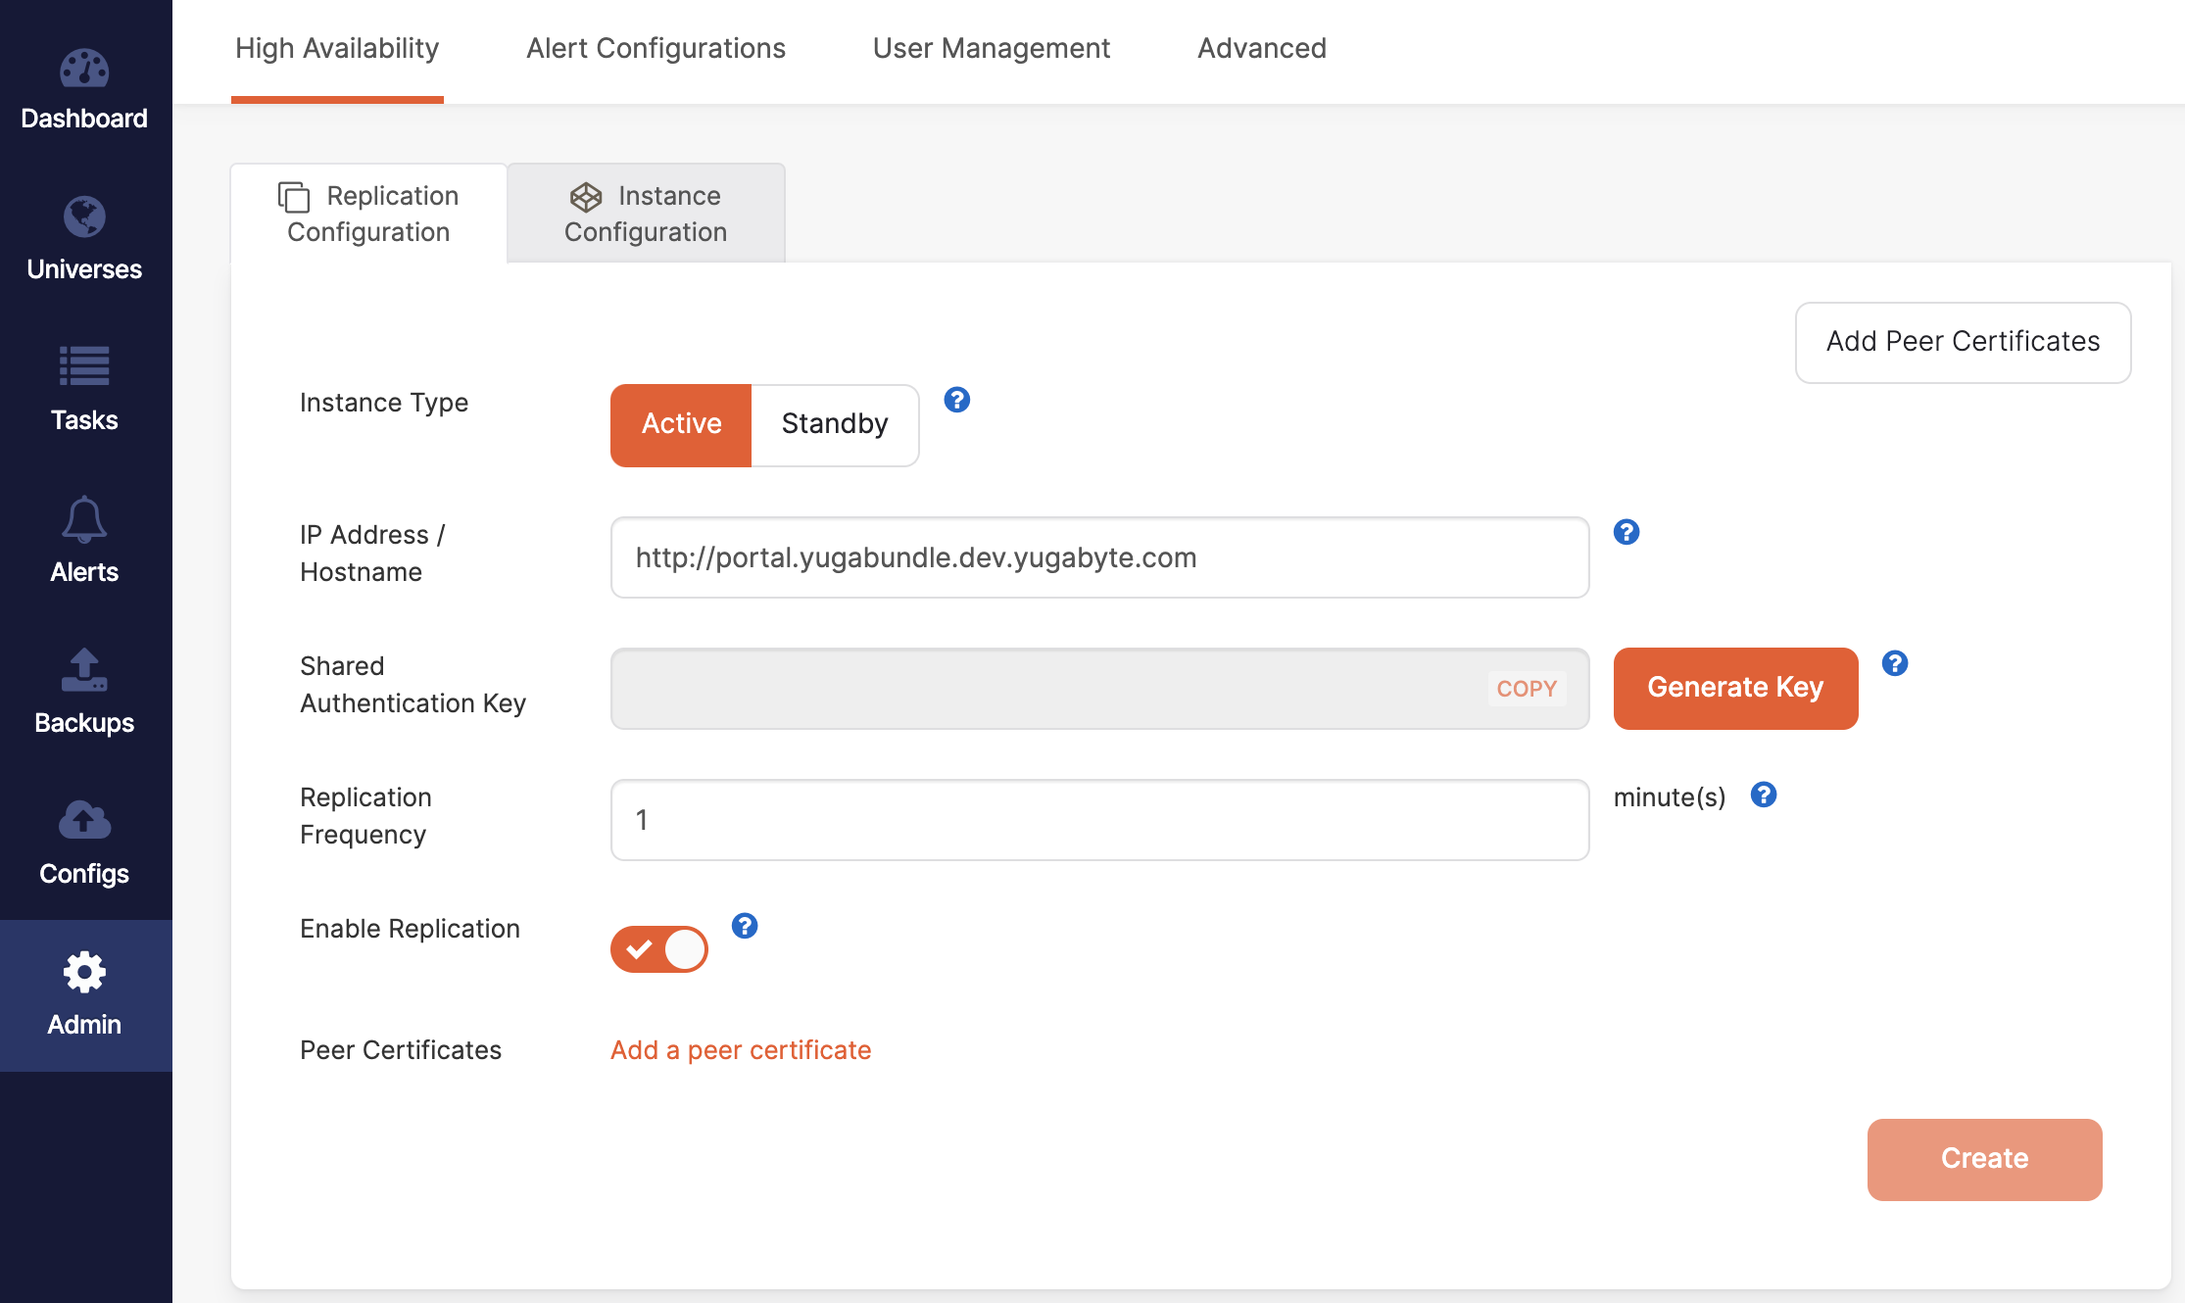
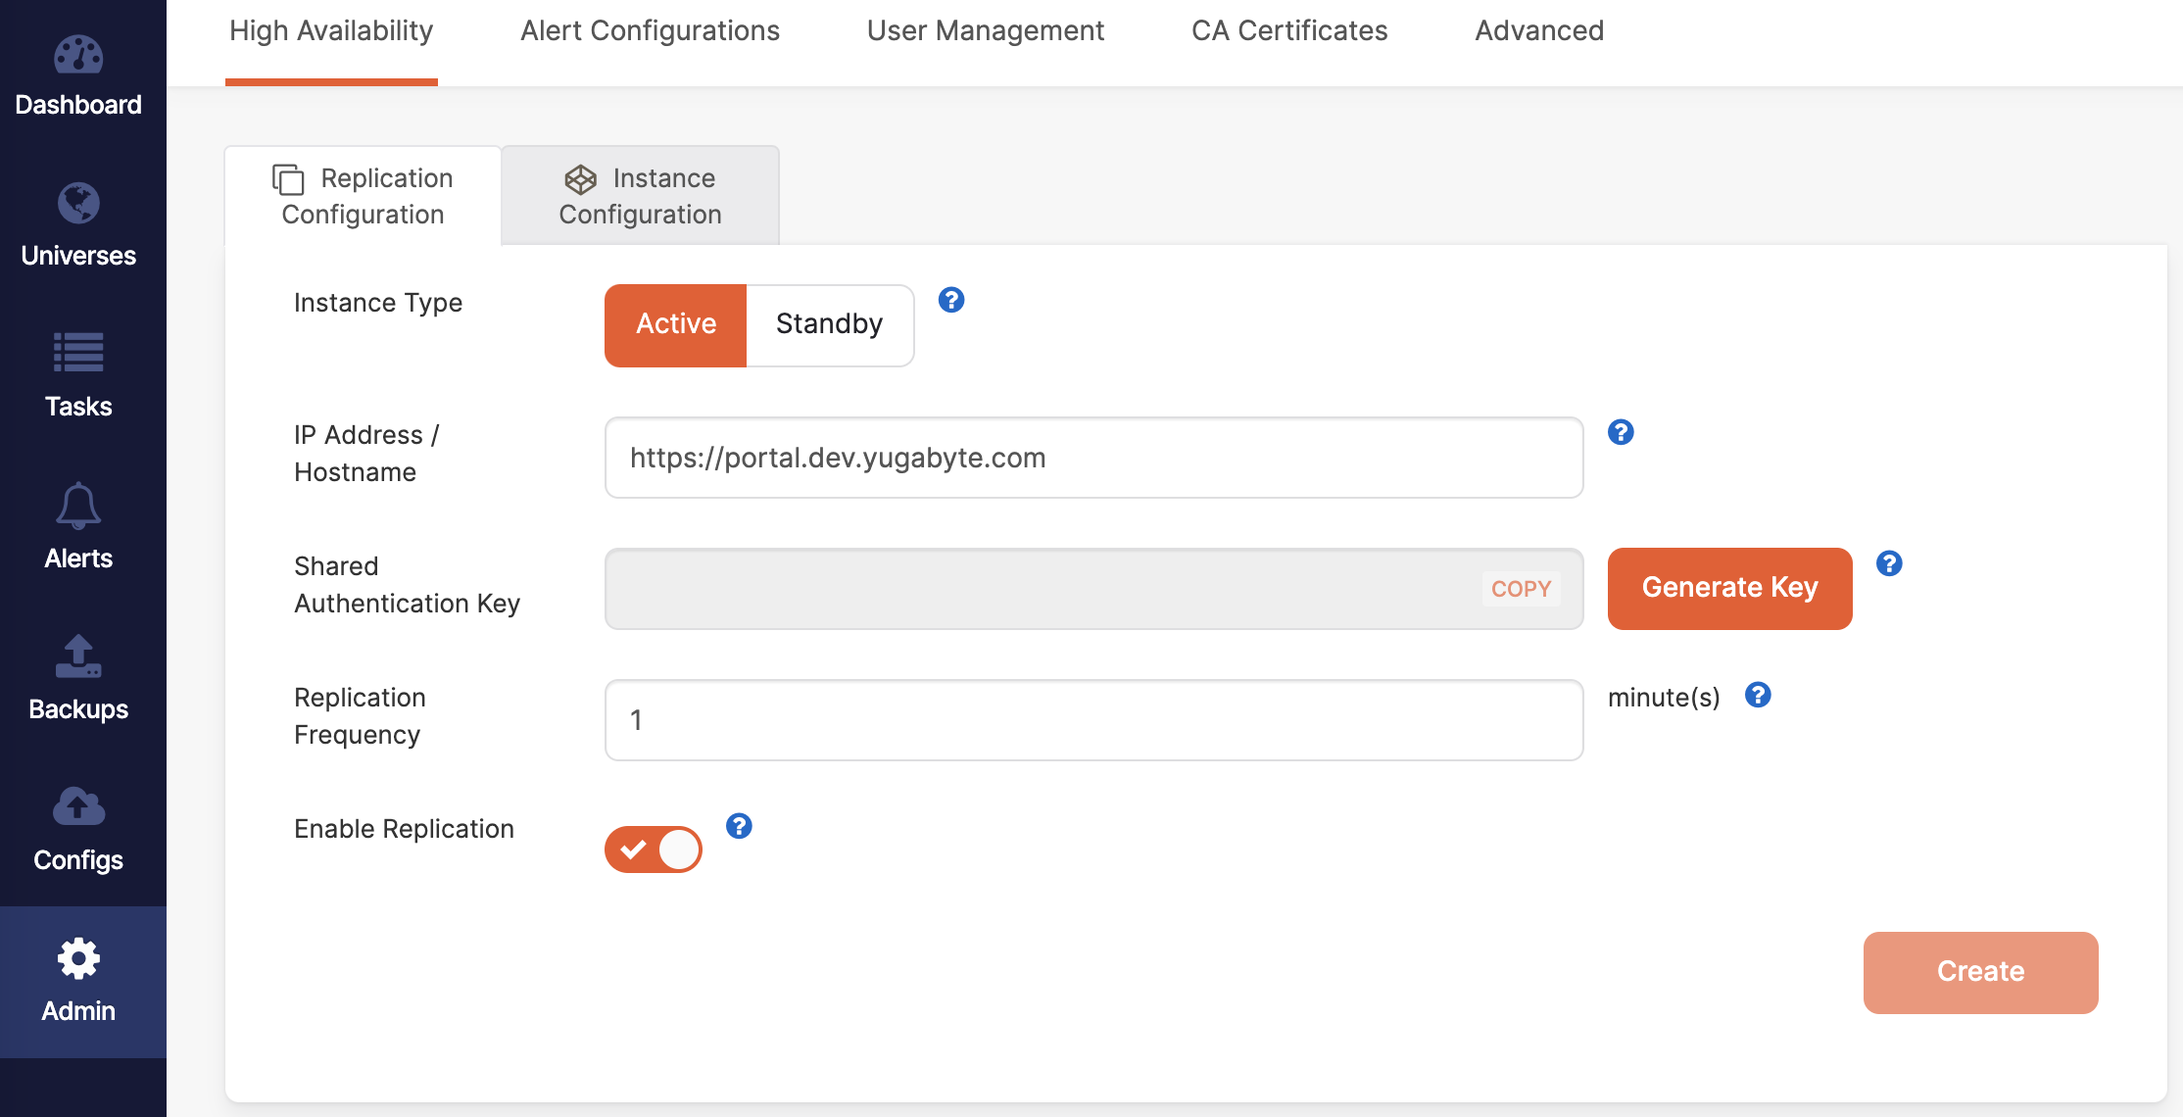
[docs][yba][DOC-73] YBA trust store (#18610)
* DOC-73 YBA trust store

* Apply suggestions from code review

* review comments

* minor fixes

* Updated high availability pages

---------

diff --git a/docs/content/preview/yugabyte-platform/security/enable-encryption-in-transit.md b/docs/content/preview/yugabyte-platform/security/enable-encryption-in-transit.md
@@ -17,6 +17,7 @@ YugabyteDB Anywhere allows you to protect data in transit by using the following
 
 - Server-to-server encryption for intra-node communication between YB-Master and YB-TServer nodes.
 - Client-to-server encryption for communication between clients and nodes when using CLIs, tools, and APIs for YSQL and YCQL.
+- Encryption for communication between YugabytedDB Anywhere and other services, including LDAP, OIDC, Hashicorp Vault, Webhook, and S3 backup storage.
 
 {{< note title="Note" >}}
 
@@ -200,11 +201,11 @@ In addition, ensure the following:
 
 1. Select **CA Signed**, as per the following illustration:
 
-   ![add-cert](/images/yp/encryption-in-transit/add-cert.png)
+    ![add-cert](/images/yp/encryption-in-transit/add-cert.png)
 
 1. Upload the custom CA root certificate as the root certificate.
 
-   If you use an intermediate CA/issuer, but do not have the complete chain of certificates, then you need to create a bundle by executing the `cat intermediate-ca.crt root-ca.crt > bundle.crt` command, and then use this bundle as the root certificate. You might also want to [verify the certificate chain](#verify-certificate-chain).
+    If you use an intermediate CA/issuer, but do not have the complete chain of certificates, then you need to create a bundle by executing the `cat intermediate-ca.crt root-ca.crt > bundle.crt` command, and then use this bundle as the root certificate. You might also want to [verify the certificate chain](#verify-certificate-chain).
 
 1. Enter the file paths for each of the certificates on the nodes. These are the paths from the previous step.
 
@@ -262,7 +263,7 @@ You rotate the existing custom certificates and replace them with new database n
 
 **Step 1**: Follow Step 1 of [Use custom CA-signed certificates to enable TLS](#use-custom-ca-signed-certificates-to-enable-tls) to obtain a new set of certificates for each of the nodes.
 
-**Step 2**: Follow Step 2 of  [Use custom CA-signed certificates to enable TLS](#use-custom-ca-signed-certificates-to-enable-tls) to copy the certificates to the respective nodes.
+**Step 2**: Follow Step 2 of [Use custom CA-signed certificates to enable TLS](#use-custom-ca-signed-certificates-to-enable-tls) to copy the certificates to the respective nodes.
 
 **Step 3**: Follow Step 3 of [Use custom CA-signed certificates to enable TLS](#use-custom-ca-signed-certificates-to-enable-tls) to create a new CA-signed certificate in YugabyteDB Anywhere.
 
@@ -362,7 +363,7 @@ You need to configure HashiCorp Vault in order to use it with YugabyteDB Anywher
 
 - Configure the secret engine, as follows:
 
-  - Create a root CA  or configure the top-level CA.
+  - Create a root CA or configure the top-level CA.
 
   - Optionally, create an intermediate CA chain and sign them.
 
@@ -483,11 +484,11 @@ During the universe creation, you can enable TLS certificates issued by the cert
    - Click **Upload Root Certificate** and select the root certificate file that you prepared.
    - Click **Add** to make the certificate available.
 
-2. Configure the Kubernetes-based cloud provider by following instructions provided in [Configure region and zones](../../configure-yugabyte-platform/set-up-cloud-provider/kubernetes/#configure-region-and-zones). In the **Add new region** dialog shown in the following illustration, you would be able to specify the Issuer name or the ClusterIssuer name for each zone. Because an Issuer Kind is a Kubernetes namespace-scoped resource, the zone definition should also set the **Namespace** field value if an Issuer Kind is selected:
+1. Configure the Kubernetes-based cloud provider by following instructions provided in [Configure region and zones](../../configure-yugabyte-platform/set-up-cloud-provider/kubernetes/#configure-region-and-zones). In the **Add new region** dialog shown in the following illustration, you would be able to specify the Issuer name or the ClusterIssuer name for each zone. Because an Issuer Kind is a Kubernetes namespace-scoped resource, the zone definition should also set the **Namespace** field value if an Issuer Kind is selected:
 
    ![Add new region](/images/yp/security/kubernetes-cert-manager-add-region.png)
 
-3. Create the universe:
+1. Create the universe:
 
    - Navigate to **Universes** and click **Create Universe**.
    - In the **Provider** field, select the cloud provided that you have configured in step 2.
@@ -507,7 +508,7 @@ kubectl get ClusterIssuer
 kubectl -n <namespace> Issuer
 ```
 
-## Connecting to clusters
+## Connect to clusters
 
 Using TLS, you can connect to the YSQL and YCQL endpoints.
 
@@ -582,7 +583,7 @@ If you created your universe with the Client-to-Node TLS option enabled, then yo
 
 To use TLS from a different client, consult the client-specific documentation. For example, if you are using a Cassandra driver to connect to YugabyteDB, see [SSL](https://docs.datastax.com/en/developer/python-driver/3.19/security/#ssl) .
 
-## Validating certificates
+## Validate certificates
 
 When configuring and using certificates, SSL issues may occasionally arise. You can validate your certificates and keys as follows:
 
@@ -632,3 +633,46 @@ In addition, as the `ssl_protocols` setting does not propagate to PostgreSQL, it
 ```shell
 --ysql_pg_conf_csv="ssl_min_protocol_version=TLSv1.2"
 ```
+
+## Use self-signed and custom CA certificates
+
+YugabyteDB Anywhere uses TLS to protect data in transit when connecting to other services, including:
+
+- LDAP
+- OIDC
+- Webhook
+- S3 backup storage
+- Hashicorp Vault
+- YBA high availability
+
+If you are using self-signed or custom CA certificates, YugabyteDB cannot verify your TLS connections unless you add the certificates to the YugabyteDB Anywhere Trust Store.
+
+### Add certificates to your trust store
+
+To add a certificate to the YugabyteDB Anywhere Trust Store, do the following:
+
+1. Navigate to **Admin > CA Certificates**.
+
+1. Click **Upload Trusted CA Certificate**.
+
+1. Enter a name for the certificate.
+
+1. Click **Upload**, select your certifcate (in .crt format) and click **Save CA Certificate**.
+
+### Rotate a certificate in your trust store
+
+To rotate a certificate in your YugabyteDB Anywhere Trust Store, do the following:
+
+1. Navigate to **Admin > CA Certificates**.
+
+1. Click the **...** button for the certificate and choose **Update Certificate**.
+
+1. Click **Upload**, select your certifcate (in .crt format) and click **Save CA Certificate**.
+
+### Delete a certificate in your trust store
+
+To delete a certificate in your YugabyteDB Anywhere Trust Store, do the following:
+
+1. Navigate to **Admin > CA Certificates**.
+
+1. Click the **...** button for the certificate and choose **Delete**, then click **Delete CA Certificate**.

diff --git a/docs/content/preview/yugabyte-platform/administer-yugabyte-platform/high-availability.md b/docs/content/preview/yugabyte-platform/administer-yugabyte-platform/high-availability.md
@@ -39,7 +39,7 @@ To set up HA for YugabyteDB Anywhere, you first configure the active instance by
 
 You then configure one or more standby instances by creating standby replication configurations, using the shared authentication key generated on the active instance.
 
-If your instances are using the HTTPS protocol, you must also add the root certificates for the active and standby instances to the YugabyteDB Anywhere trust store on the active instance.
+If your instances are using the HTTPS protocol, you must also add the root certificates for the active and standby instances to the [YugabyteDB Anywhere trust store](../../security/enable-encryption-in-transit/#add-certificates-to-your-trust-store) on the active instance.
 
 ### Configure the active instance
 
@@ -57,17 +57,17 @@ You can configure the active instance as follows:
 
     In most cases, you do not need to replicate very often. A replication interval of 5-10 minutes is recommended. For testing purposes, a 1-minute interval is more convenient.
 
-1. If the active instance is using the HTTPS protocol, copy the root certificate for the active instance. For information on how to obtain the root certificate of a server using Google Chrome, see [Get CA certificates of any server](https://medium.com/@sanghviyash6/how-to-get-ca-certificate-of-any-server-using-google-chrome-e8db3e4d3fcf), or search the internet for instructions applicable to your browser of choice.
-
-    The root certificate is required for HTTPS connections, and allows a standby to connect to the active instance if the standby is promoted to active status.
-
-1. Add the root certificate by clicking **Add Peer Certificates**, click **Add Certificate**, paste the root certificate of the **active** instance in the field, and then click **Confirm**. This adds the certificate to the YugabyteDB Anywhere trust store.
-
 1. Click **Create**.
 
 1. Switch to **Instance Configuration**.
 
     The address for this active instance should be the only information under **Instances**.
+
+1. If the active instance is using the HTTPS protocol, copy the root certificate for the active instance. For information on how to obtain the root certificate of a server using Google Chrome, see [Get CA certificates of any server](https://medium.com/@sanghviyash6/how-to-get-ca-certificate-of-any-server-using-google-chrome-e8db3e4d3fcf), or search the internet for instructions applicable to your browser of choice.
+
+    The root certificate is required for HTTPS connections, and allows a standby to connect to the active instance if the standby is promoted to active status.
+
+1. Add the root certificate to the [YugabyteDB Anywhere trust store](../../security/enable-encryption-in-transit/#add-certificates-to-your-trust-store).
 
 Your active instance is now configured.
 
@@ -89,11 +89,13 @@ After the active instance has been configured, you can configure one or more sta
 
     The CA certificate is required for HTTPS connections, and allows a standby to connect to the active instance if the standby is promoted to active status.
 
-1. Switch to the active instance, and then select **Instance Configuration**.
+1. Switch to the active instance.
+
+1. Add the root certificate of the standby instance to the [YugabyteDB Anywhere trust store](../../security/enable-encryption-in-transit/#add-certificates-to-your-trust-store) on the active instance.
+
+1. Navigate to **Admin > High Availability > Replication Configuration** and select **Instance Configuration**.
 
 1. Click **Add Instance**, enter the new standby instance's IP address or hostname, including the HTTP or HTTPS protocol prefix and port if you are not using the default of 80 or 443.
-
-1. If the standby is using the HTTPS protocol, click **Manage Peer Certificates**, click **Add Certificate**, paste the root certificate of the **standby** instance in the field, and then click **Confirm**. This adds the certificate to the YugabyteDB Anywhere trust store.
 
 1. Click **Continue** on the **Add Standby Instance** dialog.
 

diff --git a/docs/content/stable/yugabyte-platform/administer-yugabyte-platform/high-availability.md b/docs/content/stable/yugabyte-platform/administer-yugabyte-platform/high-availability.md
@@ -36,7 +36,7 @@ To set up HA for YugabyteDB Anywhere, you first configure the active instance by
 
 You then configure one or more standby instances by creating standby replication configurations, using the shared authentication key generated on the active instance.
 
-If your instances are using the HTTPS protocol, you must also add the root certificates for the active and standby instances to the YugabyteDB Anywhere trust store on the active instance.
+If your instances are using the HTTPS protocol, you must also add the root certificates for the active and standby instances to the [YugabyteDB Anywhere trust store](../../security/enable-encryption-in-transit/#add-certificates-to-your-trust-store) on the active instance.
 
 ### Configure the active instance
 
@@ -54,17 +54,17 @@ You can configure the active instance as follows:
 
     In most cases, you do not need to replicate very often. A replication interval of 5-10 minutes is recommended. For testing purposes, a 1-minute interval is more convenient.
 
-1. If the active instance is using the HTTPS protocol, copy the root certificate for the active instance. For information on how to obtain the root certificate of a server using Google Chrome, see [Get CA certificates of any server](https://medium.com/@sanghviyash6/how-to-get-ca-certificate-of-any-server-using-google-chrome-e8db3e4d3fcf), or search the internet for instructions applicable to your browser of choice.
-
-    The root certificate is required for HTTPS connections, and allows a standby to connect to the active instance if the standby is promoted to active status.
-
-1. Add the root certificate by clicking **Add Peer Certificates**, click **Add Certificate**, paste the root certificate of the **active** instance in the field, and then click **Confirm**. This adds the certificate to the YugabyteDB Anywhere trust store.
-
 1. Click **Create**.
 
 1. Switch to **Instance Configuration**.
 
     The address for this active instance should be the only information under **Instances**.
+
+1. If the active instance is using the HTTPS protocol, copy the root certificate for the active instance. For information on how to obtain the root certificate of a server using Google Chrome, see [Get CA certificates of any server](https://medium.com/@sanghviyash6/how-to-get-ca-certificate-of-any-server-using-google-chrome-e8db3e4d3fcf), or search the internet for instructions applicable to your browser of choice.
+
+    The root certificate is required for HTTPS connections, and allows a standby to connect to the active instance if the standby is promoted to active status.
+
+1. Add the root certificate to the [YugabyteDB Anywhere trust store](../../security/enable-encryption-in-transit/#add-certificates-to-your-trust-store).
 
 Your active instance is now configured.
 
@@ -86,11 +86,13 @@ After the active instance has been configured, you can configure one or more sta
 
     The CA certificate is required for HTTPS connections, and allows a standby to connect to the active instance if the standby is promoted to active status.
 
-1. Switch to the active instance, and then select **Instance Configuration**.
+1. Switch to the active instance.
+
+1. Add the root certificate of the standby instance to the [YugabyteDB Anywhere trust store](../../security/enable-encryption-in-transit/#add-certificates-to-your-trust-store) on the active instance.
+
+1. Navigate to **Admin > High Availability > Replication Configuration** and select **Instance Configuration**.
 
 1. Click **Add Instance**, enter the new standby instance's IP address or hostname, including the HTTP or HTTPS protocol prefix and port if you are not using the default of 80 or 443.
-
-1. If the standby is using the HTTPS protocol, click **Manage Peer Certificates**, click **Add Certificate**, paste the root certificate of the **standby** instance in the field, and then click **Confirm**. This adds the certificate to the YugabyteDB Anywhere trust store.
 
 1. Click **Continue** on the **Add Standby Instance** dialog.
 

diff --git a/docs/content/stable/yugabyte-platform/security/enable-encryption-in-transit.md b/docs/content/stable/yugabyte-platform/security/enable-encryption-in-transit.md
@@ -17,6 +17,7 @@ YugabyteDB Anywhere allows you to protect data in transit by using the following
 
 - Server-to-server encryption for intra-node communication between YB-Master and YB-TServer nodes.
 - Client-to-server encryption for communication between clients and nodes when using CLIs, tools, and APIs for YSQL and YCQL.
+- Encryption for communication between YugabytedDB Anywhere and other services, including LDAP, OIDC, Hashicorp Vault, Webhook, and S3 backup storage.
 
 {{< note title="Note" >}}
 
@@ -362,7 +363,7 @@ You need to configure HashiCorp Vault in order to use it with YugabyteDB Anywher
 
 - Configure the secret engine, as follows:
 
-  - Create a root CA  or configure the top-level CA.
+  - Create a root CA or configure the top-level CA.
 
   - Optionally, create an intermediate CA chain and sign them.
 
@@ -507,7 +508,7 @@ kubectl get ClusterIssuer
 kubectl -n <namespace> Issuer
 ```
 
-## Connecting to clusters
+## Connect to clusters
 
 Using TLS, you can connect to the YSQL and YCQL endpoints.
 
@@ -632,3 +633,48 @@ In addition, as the `ssl_protocols` setting does not propagate to PostgreSQL, it
 ```shell
 --ysql_pg_conf_csv="ssl_min_protocol_version=TLSv1.2"
 ```
+
+## Use self-signed and custom CA certificates
+
+YugabyteDB Anywhere uses TLS to protect data in transit when connecting to other services, including:
+
+- LDAP
+- OIDC
+- Webhook
+- S3 backup storage
+- Hashicorp Vault
+- YBA high availability
+
+If you are using self-signed or custom CA certificates, YugabyteDB cannot verify your TLS connections unless you add the certificates to the YugabyteDB Anywhere Trust Store.
+
+Note that self-signed and custom CA certificates cannot be verified for OIDC connections, even if they are uploaded to the trust store. Connections are still encrypted.
+
+### Add certificates to your trust store
+
+To add a certificate to the YugabyteDB Anywhere Trust Store, do the following:
+
+1. Navigate to **Admin > CA Certificates**.
+
+1. Click **Upload Trusted CA Certificate**.
+
+1. Enter a name for the certificate.
+
+1. Click **Upload**, select your certifcate (in .crt format) and click **Save CA Certificate**.
+
+### Rotate a certificate in your trust store
+
+To rotate a certificate in your YugabyteDB Anywhere Trust Store, do the following:
+
+1. Navigate to **Admin > CA Certificates**.
+
+1. Click the **...** button for the certificate and choose **Update Certificate**.
+
+1. Click **Upload**, select your certifcate (in .crt format) and click **Save CA Certificate**.
+
+### Delete a certificate in your trust store
+
+To delete a certificate in your YugabyteDB Anywhere Trust Store, do the following:
+
+1. Navigate to **Admin > CA Certificates**.
+
+1. Click the **...** button for the certificate and choose **Delete**, then click **Delete CA Certificate**.
